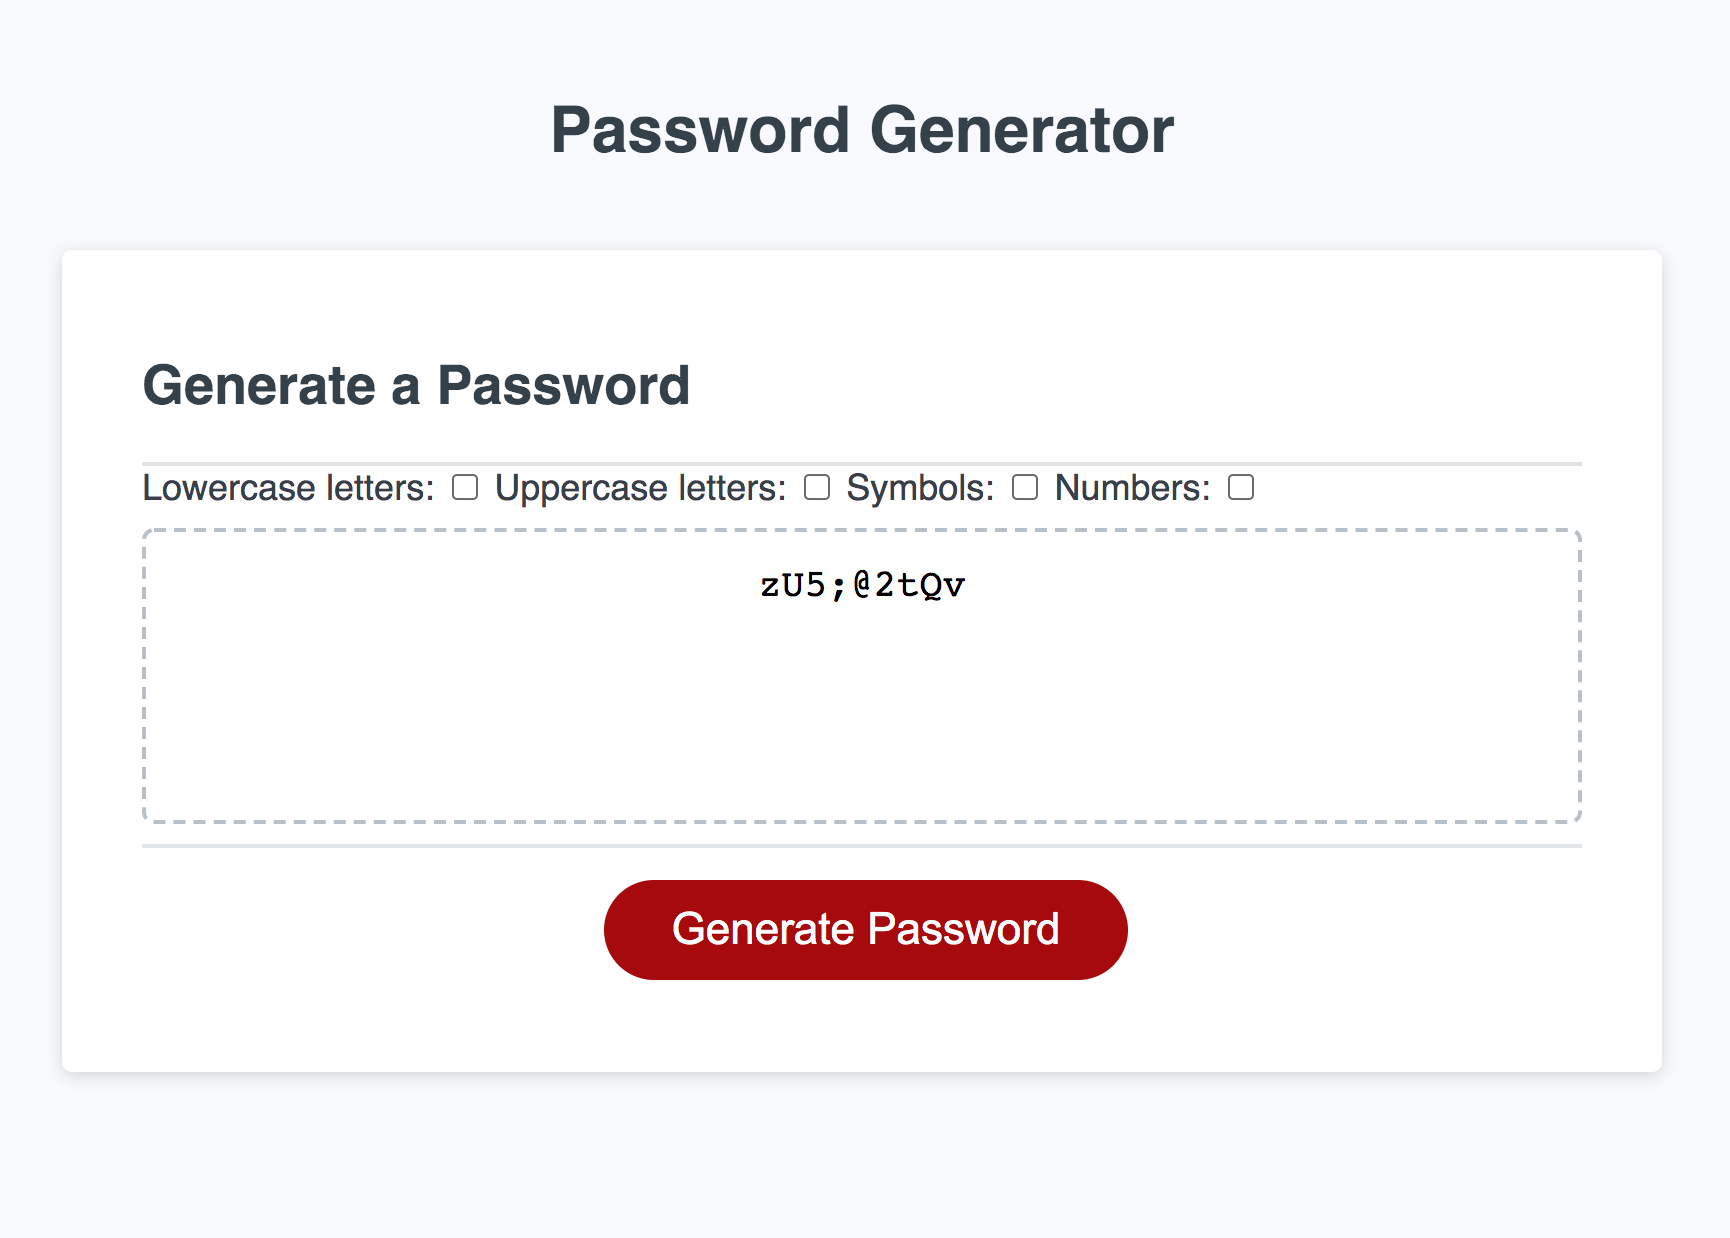
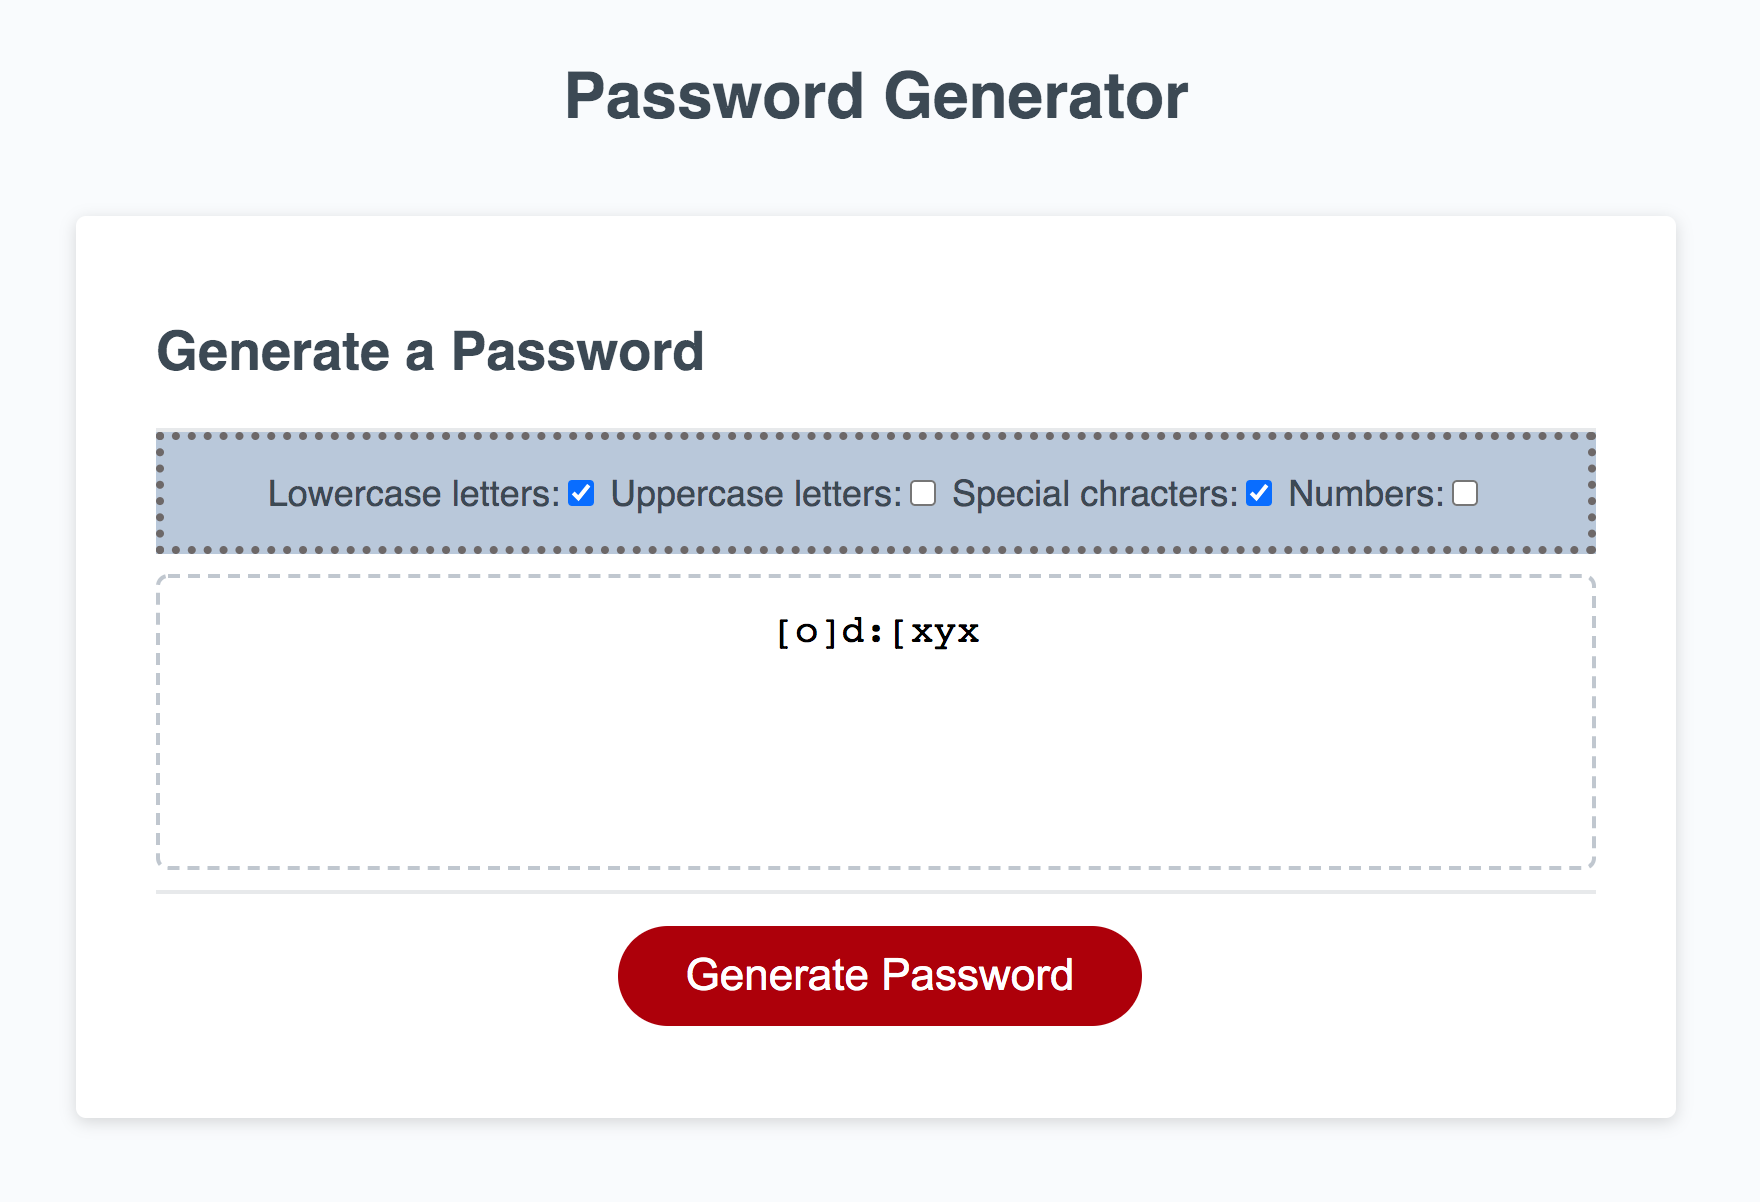
completed random password generator of between user chosen 8-128 characters

Changed region(s): [[0.0624, 0.277, 0.9364, 0.5541], [0.0624, 0.708, 0.9364, 0.8927], [0.3121, 0.0616, 0.6867, 0.1231]]

diff --git a/assets/script/script.js b/assets/script/script.js
@@ -1,7 +1,3 @@
-// Assignment Code
-
-// set checkboxes to unchecked after page loads.
-
 // Click "Generate Password" button to start process.
 
 var generateBtn = document.querySelector("#generate");
@@ -36,27 +32,24 @@ while (pwCharLength < 8 || pwCharLength > 128) {
 // series of prompts asking types of charactes o be included in password string
 
 var lowercaseQuery = confirm("Would you like to include lowercase letters?");
-  if (lowercaseQuery == true) {
+  if (lowercaseQuery) {
       document.getElementById("lowercaseCheck").checked = true;
     }
 
 var uppercaseQuery = confirm("Would you like to include uppercase letters?");
-  if (uppercaseQuery == true) {
+  if (uppercaseQuery) {
       document.getElementById("uppercaseCheck").checked = true;
     } 
 
 var specialsQuery = confirm("Would you like to include special characters?");
-  if (specialsQuery == true) {
+  if (specialsQuery) {
       document.getElementById("specialsCheck").checked = true;
     }
 
 var numbersQuery = confirm("Would you like to include numbers?");
-  if (numbersQuery == true) {
+  if (numbersQuery) {
       document.getElementById("numbersCheck").checked = true;
     }       
-
-
-console.log(lowercaseQuery, uppercaseQuery, specialsQuery, numbersQuery);
 
 // assign variables to arrays for character selection
 
@@ -84,11 +77,8 @@ while (tally < pwCharLength) {
 
 if (lowercaseQuery === true && (tally <= pwCharLength)) {
   var lowerRandNum = Math.floor(Math.random() * lowercase.length);
-  console.log("lowercase random number is: " + lowerRandNum);
-  console.log("lowercase letter seleected was: " + lowercase[lowerRandNum])
   charSelection.push(lowercase[lowerRandNum]);
   tally++;
-  console.log("lowercase increased tally to: " + tally);
 }
 
 
@@ -124,24 +114,25 @@ if (numbersQuery === true && (tally != pwCharLength)) {
 
 } // end of character selection while loop
 
-console.log(charSelection);
-
-// convert array to a string
+// convert generated array to a string
 
 var password = charSelection.join("");
 
-console.log("Ordered password is: " + password);
+// display string in console log to check result
 
-// randomly shuffle or arrange an array
+console.log("Generated password is: " + password);
+
+// randomly shuffle the charSelection array to randomize sequence of characters
 
 function shuffle(array) {
   array.sort(() => Math.random() - 0.5);
 }
 
-randCharSelection = shuffle(charSelection);
+shuffle(charSelection);
 var randPassword = charSelection.join("");
 
-console.log(randPassword);
+// display string in console log to check result
+console.log("Randomized password is: " + randPassword);
 
 
 // Write randomized password to the #password input

diff --git a/index.html b/index.html
@@ -18,9 +18,9 @@
         </div>
         <div class="card-body">
           <div class="container">
-            Lowercase letters:<input type="checkbox" id="lowercaseCheck" aria-label="Check box for lowercase letters">
-            Uppercase letters:<input type="checkbox" id="uppercaseCheck" aria-label="Check box for uppercase letters">
-            Special chracters:<input type="checkbox" id="specialsCheck" aria-label="Check box for special characters">
+            Lowercase letters:<input type="checkbox" id="lowercaseCheck" aria-label="Check box for lowercase letters"><br>
+            Uppercase letters:<input type="checkbox" id="uppercaseCheck" aria-label="Check box for uppercase letters"><br>
+            Special chracters:<input type="checkbox" id="specialsCheck" aria-label="Check box for special characters"><br>
             Numbers:<input type="checkbox" id="numbersCheck" aria-label="Check box for numbers">
           </div>
           <textarea

diff --git a/assets/style/style.css b/assets/style/style.css
@@ -73,6 +73,7 @@ header {
 }
 
 .container {
+  font-size: 1rem;
   text-align: center;
   background-color: #b8c8da;
   padding: 1rem 0 1rem 0;

diff --git a/README.md b/README.md
@@ -19,44 +19,10 @@ Link to deployed application:
 
 https://blakestickland.github.io/password-generator/
 
+Challenges: 
+* Working out how to randomize the sequentially generated random password took some time. 
+* Displaying the text in the text area was a challenge.
 
-## User Story
-
-```
-AS AN employee with access to sensitive data
-I WANT to randomly generate a password that meets certain criteria
-SO THAT I can create a strong password that provides greater security
-```
-
-## Acceptance Criteria
-
-```
-GIVEN I need a new, secure password
-WHEN I click the button to generate a password
-THEN I am presented with a series of prompts for password criteria
-WHEN prompted for password criteria
-THEN I select which criteria to include in the password
-WHEN prompted for the length of the password
-THEN I choose a length of at least 8 characters and no more than 128 cha
-WHEN prompted for character types to include in the password
-THEN I choose lowercase, uppercase, numeric, and/or special characters
-WHEN I answer each prompt
-THEN my input should be validated and at least one character type should
-WHEN all prompts are answered
-THEN a password is generated that matches the selected criteria
-WHEN the password is generated
-THEN the password is either displayed in an alert or written to the page
-
-
-** to work on next 
-
--- need to shuffle the array.
-
--- need to change array to string.
-
--- need to get password string into the text box. 
-
--- need to check the loops will choose from correct set.
- remember zero index and value assigned to "x" or "i"
-
- -- need to turn check boxes to ticks if confirm() returns true.
+For future development:
+* Replace the check boxes, which are a misleading in that they only deisplay the result of the confirm messages. Instead, could display the user selected criteria in a text area including stating the length of the password.
+* Redesign the password generator so that one character from each chosen character array is selected, then the rest of the password is generated completely randomly from a concatenated set. 
